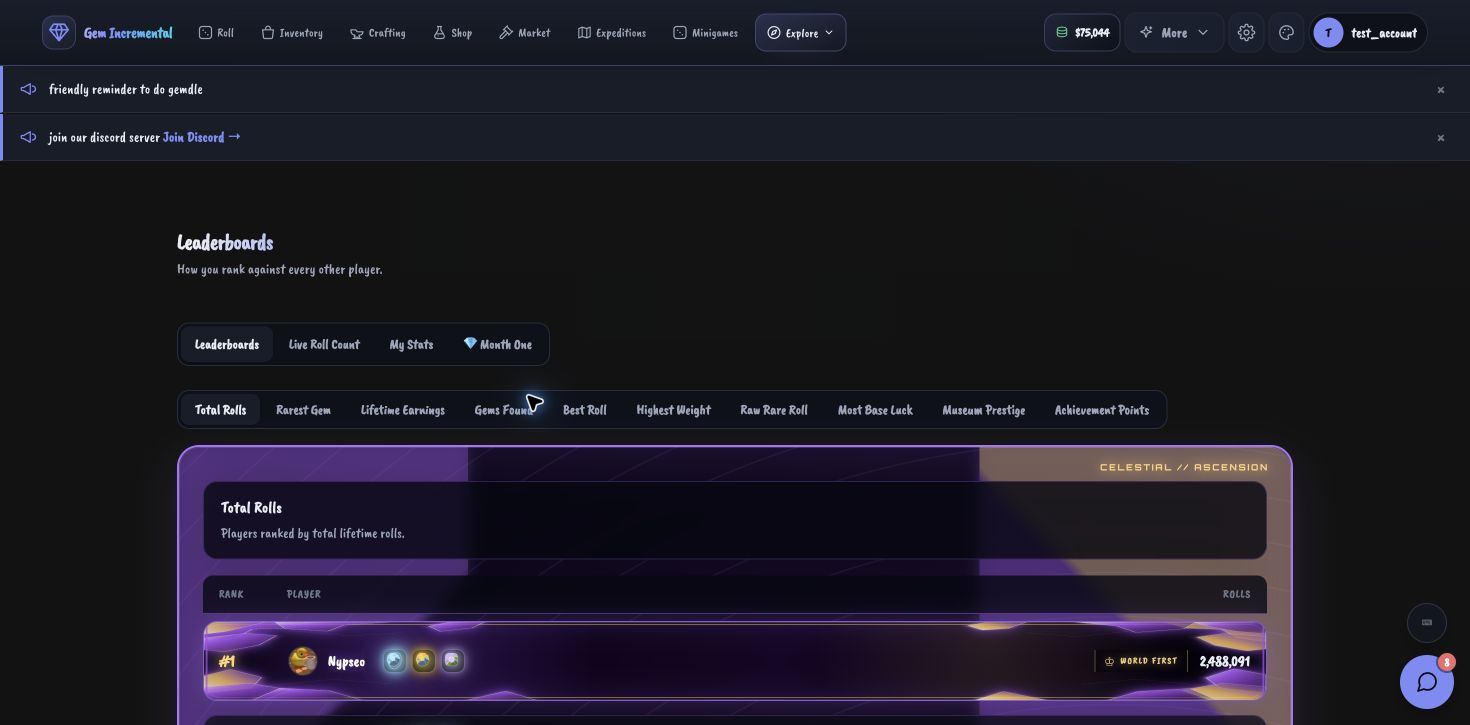
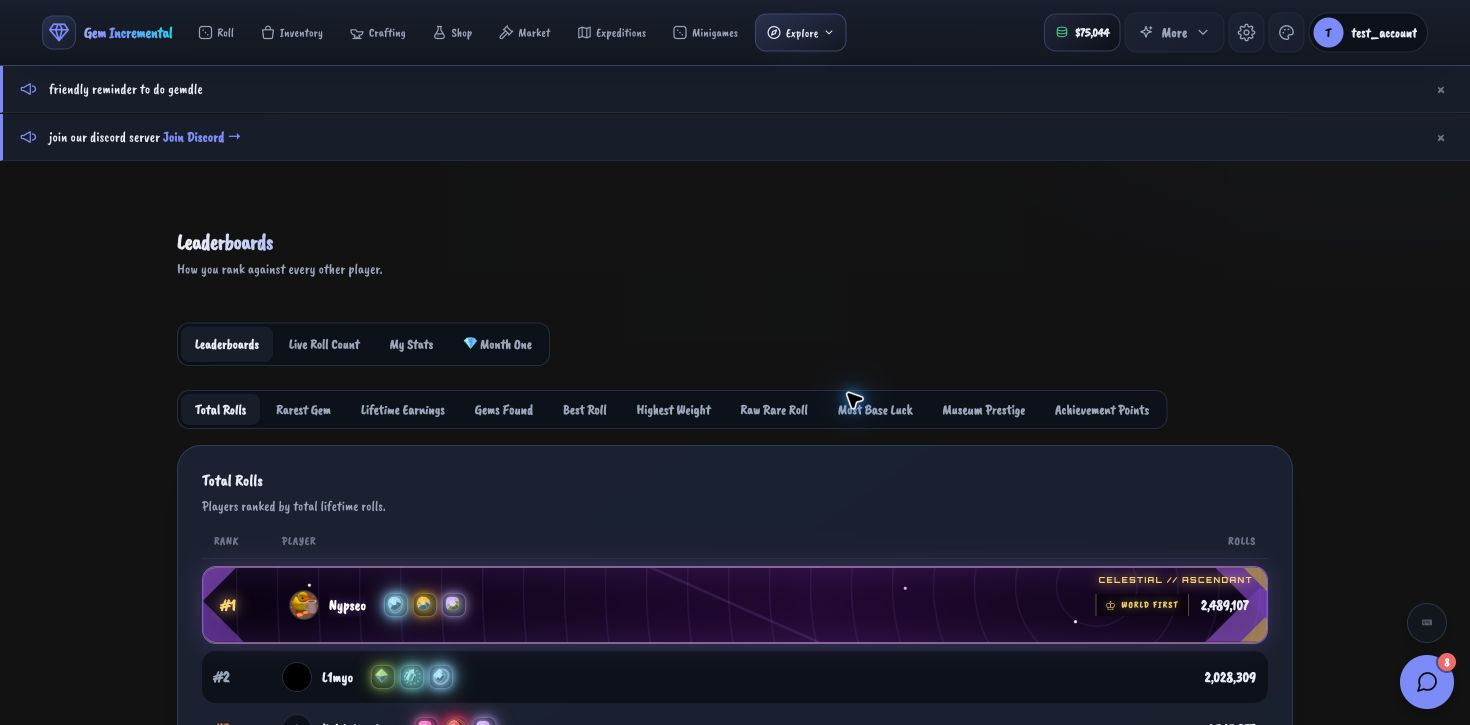
Apply leaderboard skins to player rows

diff --git a/leaderboards/leaderboards.css b/leaderboards/leaderboards.css
@@ -40,29 +40,122 @@
 .leaderboard-card h2 {
   margin-bottom: var(--space-1);
 }
-.leaderboard-card:is([data-leaderboard-skin="glitched"],[data-leaderboard-skin="celestial"],[data-leaderboard-skin="overgrown"]){--board-skin:#9f72ff;--board-skin-2:#f1cb76;position:relative;isolation:isolate;overflow:hidden;padding:34px 24px 24px;border:2px solid var(--board-skin);border-radius:22px;box-shadow:inset 0 0 0 1px #ffffff29,inset 0 0 65px color-mix(in srgb,var(--board-skin) 17%,transparent),0 16px 45px color-mix(in srgb,var(--board-skin) 15%,transparent)}
-.leaderboard-card:is([data-leaderboard-skin="glitched"],[data-leaderboard-skin="celestial"],[data-leaderboard-skin="overgrown"])::before{position:absolute;z-index:3;top:16px;right:22px;color:var(--board-skin-2);font:800 .55rem/1 var(--font-display);letter-spacing:.19em;text-transform:uppercase;text-shadow:0 0 12px currentColor}
-.leaderboard-card:is([data-leaderboard-skin="glitched"],[data-leaderboard-skin="celestial"],[data-leaderboard-skin="overgrown"])::after{content:"";position:absolute;inset:0;z-index:0;pointer-events:none;border-radius:inherit;opacity:.82;filter:drop-shadow(0 0 7px color-mix(in srgb,var(--board-skin) 70%,transparent))}
-.leaderboard-card:is([data-leaderboard-skin="glitched"],[data-leaderboard-skin="celestial"],[data-leaderboard-skin="overgrown"]) > *{position:relative;z-index:1}
-.leaderboard-card:is([data-leaderboard-skin="glitched"],[data-leaderboard-skin="celestial"],[data-leaderboard-skin="overgrown"]) .leaderboard-title-row{padding:15px 17px;border:1px solid color-mix(in srgb,var(--board-skin) 24%,transparent);border-radius:14px;background:#050710c7;backdrop-filter:blur(7px)}
-.leaderboard-card:is([data-leaderboard-skin="glitched"],[data-leaderboard-skin="celestial"],[data-leaderboard-skin="overgrown"]) .leaderboard-header{margin-top:12px;padding:10px 16px;border-color:color-mix(in srgb,var(--board-skin) 40%,transparent);border-radius:10px 10px 0 0;background:#050710c7;backdrop-filter:blur(7px)}
-.leaderboard-card:is([data-leaderboard-skin="glitched"],[data-leaderboard-skin="celestial"],[data-leaderboard-skin="overgrown"]) .leaderboard-row{min-height:64px;margin-block:7px;padding:13px 16px;border:1px solid color-mix(in srgb,var(--board-skin) 24%,transparent);background:#060810c2;box-shadow:inset 0 0 18px color-mix(in srgb,var(--board-skin) 8%,transparent);backdrop-filter:blur(4px)}
-.leaderboard-card:is([data-leaderboard-skin="glitched"],[data-leaderboard-skin="celestial"],[data-leaderboard-skin="overgrown"]) .leaderboard-row:first-child{min-height:80px;border-color:color-mix(in srgb,var(--board-skin) 78%,transparent);background:linear-gradient(100deg,color-mix(in srgb,var(--board-skin) 31%,transparent),#05070fd9 56%,color-mix(in srgb,var(--board-skin-2) 13%,transparent));box-shadow:inset 0 0 30px color-mix(in srgb,var(--board-skin) 18%,transparent),0 0 24px color-mix(in srgb,var(--board-skin) 24%,transparent)}
-.leaderboard-card:is([data-leaderboard-skin="glitched"],[data-leaderboard-skin="celestial"],[data-leaderboard-skin="overgrown"]) .leaderboard-row:first-child .rank{color:var(--board-skin-2)!important;text-shadow:0 0 14px currentColor}
+.leaderboard-row:is([data-leaderboard-skin="glitched"],[data-leaderboard-skin="celestial"],[data-leaderboard-skin="overgrown"]) {
+  --row-skin: #9f72ff;
+  --row-skin-2: #f1cb76;
+  position: relative;
+  isolation: isolate;
+  overflow: hidden;
+  min-height: 78px;
+  margin-block: 7px;
+  padding: 15px 18px;
+  border: 1px solid color-mix(in srgb, var(--row-skin) 78%, transparent);
+  background: #070811 !important;
+  box-shadow: inset 0 0 0 1px #ffffff1a,
+    inset 0 0 34px color-mix(in srgb, var(--row-skin) 18%, transparent),
+    0 0 23px color-mix(in srgb, var(--row-skin) 22%, transparent);
+}
 
-.leaderboard-card[data-leaderboard-skin="glitched"]{--board-skin:#43f1df;--board-skin-2:#ff4d96;background:repeating-linear-gradient(0deg,transparent 0 8px,#64fff008 9px 10px),linear-gradient(112deg,transparent 47%,#ff438518 47.2% 47.7%,transparent 48%),radial-gradient(circle at 18% 16%,#103f4b78,transparent 28%),linear-gradient(145deg,#02090e,#170718 62%,#041317)}
-.leaderboard-card[data-leaderboard-skin="glitched"]::before{content:"GLITCHED // RANK FEED"}
-.leaderboard-card[data-leaderboard-skin="glitched"]::after{background:conic-gradient(from 28deg at 0 0,#43f1df 0 9deg,#06151a 10deg 22deg,#ff4d96 23deg 33deg,transparent 34deg),conic-gradient(from 211deg at 100% 100%,#ff4d96 0 11deg,#06151a 12deg 25deg,#43f1df 26deg 36deg,transparent 37deg),linear-gradient(135deg,#43f1df 0 2px,transparent 3px) 0 0/35% 52% no-repeat,linear-gradient(315deg,#ff4d96 0 2px,transparent 3px) 100% 100%/40% 50% no-repeat}.leaderboard-card[data-leaderboard-skin="glitched"] .leaderboard-row:nth-child(3n+1){text-shadow:-1px 0 #ff4381,1px 0 #42eaff}
+.leaderboard-row:is([data-leaderboard-skin="glitched"],[data-leaderboard-skin="celestial"],[data-leaderboard-skin="overgrown"])::before {
+  content: "";
+  position: absolute;
+  inset: 0;
+  z-index: 0;
+  pointer-events: none;
+  opacity: 0.88;
+}
 
-.leaderboard-card[data-leaderboard-skin="celestial"]{--board-skin:#a875ff;--board-skin-2:#ffd477;background:radial-gradient(circle at 11% 13%,#fff 0 1px,transparent 2px),radial-gradient(circle at 78% 24%,#d1bcff 0 1px,transparent 2px),repeating-radial-gradient(circle at 84% 12%,transparent 0 42px,#ae78ff16 43px 44px),radial-gradient(circle at 82% 13%,#61348761,transparent 20%),linear-gradient(145deg,#070211,#180728 63%,#0a0315)}
-.leaderboard-card[data-leaderboard-skin="celestial"]::before{content:"CELESTIAL // ASCENSION"}
-.leaderboard-card[data-leaderboard-skin="celestial"]::after{opacity:.5;background:linear-gradient(135deg,#a55cf0b8 0 12%,transparent 12.4%) 0 0/26% 39% no-repeat,linear-gradient(225deg,#ffd477b8 0 9%,#9851e5b8 9.4% 19%,transparent 19.4%) 100% 0/28% 42% no-repeat,linear-gradient(45deg,#8e4bd6b8 0 13%,transparent 13.4%) 0 100%/30% 42% no-repeat,linear-gradient(315deg,#ffd477b8 0 8%,#a962edb8 8.4% 19%,transparent 19.4%) 100% 100%/31% 43% no-repeat,linear-gradient(24deg,transparent 49.7%,#b784ff36 50%,transparent 50.3%)}
+.leaderboard-row:is([data-leaderboard-skin="glitched"],[data-leaderboard-skin="celestial"],[data-leaderboard-skin="overgrown"])::after {
+  position: absolute;
+  z-index: 2;
+  inset: 9px 14px auto auto;
+  width: auto;
+  opacity: 1;
+  background: none;
+  filter: none;
+  color: var(--row-skin-2);
+  font: 800 0.5rem/1 var(--font-display);
+  letter-spacing: 0.17em;
+  text-transform: uppercase;
+  text-shadow: 0 0 11px currentColor;
+}
 
-.leaderboard-card[data-leaderboard-skin="overgrown"]{--board-skin:#82d179;--board-skin-2:#dfb267;background:linear-gradient(112deg,transparent 48%,#a8d48617 49%,transparent 50%),radial-gradient(ellipse at 50% 106%,#5c764d 0,#293a26 31%,transparent 58%),linear-gradient(145deg,#081009,#172018 63%,#0b120c)}
-.leaderboard-card[data-leaderboard-skin="overgrown"]::before{content:"OVERGROWN // DEEPEST ROOTS"}
-.leaderboard-card[data-leaderboard-skin="overgrown"]::after{background:linear-gradient(135deg,#657657 0 14%,transparent 14.4%) 0 0/30% 45% no-repeat,linear-gradient(225deg,#455d40 0 16%,transparent 16.4%) 100% 0/34% 46% no-repeat,linear-gradient(45deg,#7a8d63 0 15%,transparent 15.4%) 0 100%/33% 47% no-repeat,linear-gradient(315deg,#506747 0 17%,transparent 17.4%) 100% 100%/36% 49% no-repeat,repeating-radial-gradient(ellipse at 7% 18%,transparent 0 13px,#79bd6840 14px 16px,transparent 17px 30px)}
-.leaderboard-card[data-leaderboard-skin="overgrown"] .leaderboard-row{border-bottom:3px solid #4e683e}
-@media(max-width:620px){.leaderboard-card:is([data-leaderboard-skin="glitched"],[data-leaderboard-skin="celestial"],[data-leaderboard-skin="overgrown"]){padding:38px 10px 12px;border-radius:17px}.leaderboard-card:is([data-leaderboard-skin="glitched"],[data-leaderboard-skin="celestial"],[data-leaderboard-skin="overgrown"])::before{top:14px;right:14px;font-size:.47rem}.leaderboard-card:is([data-leaderboard-skin="glitched"],[data-leaderboard-skin="celestial"],[data-leaderboard-skin="overgrown"])::after{opacity:.52}.leaderboard-card:is([data-leaderboard-skin="glitched"],[data-leaderboard-skin="celestial"],[data-leaderboard-skin="overgrown"]) .leaderboard-row{padding-inline:10px}}
+.leaderboard-row:is([data-leaderboard-skin="glitched"],[data-leaderboard-skin="celestial"],[data-leaderboard-skin="overgrown"]) > * {
+  position: relative;
+  z-index: 1;
+}
+
+.leaderboard-row:is([data-leaderboard-skin="glitched"],[data-leaderboard-skin="celestial"],[data-leaderboard-skin="overgrown"]) .rank {
+  color: var(--row-skin-2) !important;
+  text-shadow: 0 0 14px currentColor;
+}
+
+.leaderboard-row[data-leaderboard-skin="glitched"] {
+  --row-skin: #43f1df;
+  --row-skin-2: #ff5b9d;
+  background: repeating-linear-gradient(0deg, transparent 0 7px, #64fff009 8px 9px),
+    radial-gradient(circle at 16% 50%, #0b5d687d, transparent 28%),
+    linear-gradient(102deg, #020b10, #180717 61%, #04151a) !important;
+}
+
+.leaderboard-row[data-leaderboard-skin="glitched"]::before {
+  background: conic-gradient(from 28deg at 0 0, #43f1df 0 10deg, #06151a 11deg 25deg, #ff4d96 26deg 36deg, transparent 37deg),
+    conic-gradient(from 210deg at 100% 100%, #ff4d96 0 11deg, #06151a 12deg 26deg, #43f1df 27deg 38deg, transparent 39deg),
+    linear-gradient(90deg, transparent 0 48%, #43f1df2e 48.2% 49%, transparent 49.2% 71%, #ff4d9630 71.2% 72%, transparent 72.2%);
+}
+
+.leaderboard-row[data-leaderboard-skin="glitched"]::after { content: "GLITCHED // USER"; }
+.leaderboard-row[data-leaderboard-skin="glitched"] .lb-name-text { text-shadow: -1px 0 #ff4381, 1px 0 #42eaff; }
+
+.leaderboard-row[data-leaderboard-skin="celestial"] {
+  --row-skin: #aa72ff;
+  --row-skin-2: #ffd477;
+  background: radial-gradient(circle at 10% 24%, #fff 0 1px, transparent 2px),
+    radial-gradient(circle at 66% 28%, #d1bcff 0 1px, transparent 2px),
+    radial-gradient(circle at 82% 72%, #fff 0 1px, transparent 2px),
+    repeating-radial-gradient(circle at 84% 25%, transparent 0 39px, #ae78ff19 40px 41px),
+    linear-gradient(102deg, #080211, #220832 58%, #0b0315) !important;
+}
+
+.leaderboard-row[data-leaderboard-skin="celestial"]::before {
+  opacity: 0.68;
+  background: linear-gradient(135deg, #a55cf0d1 0 13%, transparent 13.5%) 0 0 / 18% 75% no-repeat,
+    linear-gradient(225deg, #ffd477d1 0 8%, #9851e5d1 8.5% 18%, transparent 18.5%) 100% 0 / 21% 78% no-repeat,
+    linear-gradient(45deg, #8e4bd6ce 0 13%, transparent 13.5%) 0 100% / 24% 70% no-repeat,
+    linear-gradient(315deg, #ffd477d1 0 8%, #a962edcf 8.5% 19%, transparent 19.5%) 100% 100% / 25% 72% no-repeat,
+    linear-gradient(24deg, transparent 49.6%, #b784ff42 50%, transparent 50.4%);
+}
+
+.leaderboard-row[data-leaderboard-skin="celestial"]::after { content: "CELESTIAL // ASCENDANT"; }
+
+.leaderboard-row[data-leaderboard-skin="overgrown"] {
+  --row-skin: #82d179;
+  --row-skin-2: #edc478;
+  border-bottom-width: 3px;
+  background: linear-gradient(112deg, transparent 48%, #a8d48619 49%, transparent 50%),
+    radial-gradient(ellipse at 48% 118%, #58734b 0, #263823 35%, transparent 60%),
+    linear-gradient(102deg, #081009, #1a281a 60%, #0b120c) !important;
+}
+
+.leaderboard-row[data-leaderboard-skin="overgrown"]::before {
+  background: linear-gradient(135deg, #657657 0 16%, transparent 16.5%) 0 0 / 23% 88% no-repeat,
+    linear-gradient(225deg, #455d40 0 18%, transparent 18.5%) 100% 0 / 26% 90% no-repeat,
+    linear-gradient(45deg, #7a8d63 0 17%, transparent 17.5%) 0 100% / 25% 88% no-repeat,
+    linear-gradient(315deg, #506747 0 19%, transparent 19.5%) 100% 100% / 28% 92% no-repeat,
+    repeating-radial-gradient(ellipse at 6% 20%, transparent 0 12px, #79bd6850 13px 15px, transparent 16px 29px);
+}
+
+.leaderboard-row[data-leaderboard-skin="overgrown"]::after { content: "OVERGROWN // DEEP ROOT"; }
+
+@media (max-width: 620px) {
+  .leaderboard-row:is([data-leaderboard-skin="glitched"],[data-leaderboard-skin="celestial"],[data-leaderboard-skin="overgrown"]) {
+    min-height: 68px;
+    padding: 13px 10px;
+  }
+
+  .leaderboard-row:is([data-leaderboard-skin="glitched"],[data-leaderboard-skin="celestial"],[data-leaderboard-skin="overgrown"])::before { opacity: 0.58; }
+  .leaderboard-row:is([data-leaderboard-skin="glitched"],[data-leaderboard-skin="celestial"],[data-leaderboard-skin="overgrown"])::after { display: none; }
+}
 
 .leaderboard-title-row {
   margin-bottom: var(--space-4);

diff --git a/leaderboards/leaderboards.js b/leaderboards/leaderboards.js
@@ -14,7 +14,6 @@ import gems from "../src/data/gems.js";
 import { loadShowcasesFor } from "../src/backend/cloudShowcase.js";
 import { showcasePinsHtml } from "../src/ui/showcaseRender.js";
 import { roleForUsername, roleBadgeHtml } from "../src/ui/roles.js";
-import { mountEquippedLeaderboardSkin } from "../src/ui/equippedCosmetics.js";
 
 let liveMutationCatalog = Object.fromEntries(
   Object.values(GEM_MUTATIONS).map((mutation) => [mutation.id, mutation])
@@ -102,7 +101,9 @@ let activeLeaderboard =
 let avatarMap = {};
 let showcaseMap = {};
 let profileIdMap = {};
+let leaderboardSkinMap = {};
 let impossibleWorldFirstId = null;
+const leaderboardSkinStyles = new Set(['glitched', 'celestial', 'overgrown']);
 
 function showcasePins(username) {
   return showcasePinsHtml(showcaseMap[username]);
@@ -205,7 +206,9 @@ async function loadAvatars() {
     "bestRoll",
     "mostWeight",
     "rawRareRoll",
-    "baseLuck"
+    "baseLuck",
+    "museumPrestige",
+    "achievementPoints"
   ]) {
     for (const player of leaderboardData[key]) {
       if (player.username) {
@@ -218,6 +221,7 @@ async function loadAvatars() {
     avatarMap = {};
     showcaseMap = {};
     profileIdMap = {};
+    leaderboardSkinMap = {};
     return;
   }
 
@@ -260,6 +264,25 @@ async function loadAvatars() {
       ? profileResult.data
       : {};
   impossibleWorldFirstId = impossibleResult.error ? null : impossibleResult.data?.player_id ?? null;
+
+  const userIds = [...new Set(Object.values(profileIdMap).filter(Boolean))];
+  if (userIds.length === 0) {
+    leaderboardSkinMap = {};
+    return;
+  }
+
+  const { data: publicCosmetics, error: cosmeticsError } = await supabase.rpc(
+    "get_public_player_titles",
+    { p_user_ids: userIds }
+  );
+
+  leaderboardSkinMap = {};
+  if (!cosmeticsError && publicCosmetics && typeof publicCosmetics === "object") {
+    for (const [username, userId] of Object.entries(profileIdMap)) {
+      const style = publicCosmetics[userId]?.leaderboard_skin?.visual_config?.style;
+      if (leaderboardSkinStyles.has(style)) leaderboardSkinMap[username] = style;
+    }
+  }
 }
 
 
@@ -949,6 +972,11 @@ function wireProfileLinks() {
     "[data-profile-username]"
   );
 
+  const previewStyle = new URLSearchParams(location.search).get('cosmeticPreview');
+  const previewRow = leaderboardSkinStyles.has(previewStyle)
+    ? identities[0]?.closest('.leaderboard-row')
+    : null;
+
   for (const identity of identities) {
     if (identity.closest("a.leaderboard-profile-link")) {
       continue;
@@ -956,15 +984,21 @@ function wireProfileLinks() {
 
     const username = identity.dataset.profileUsername;
     const userId = profileIdMap[username];
+    const row = identity.closest('.leaderboard-row');
+    const skinStyle = row === previewRow ? previewStyle : leaderboardSkinMap[username];
+
+    if (row && leaderboardSkinStyles.has(skinStyle)) {
+      row.dataset.leaderboardSkin = skinStyle;
+      row.title = `${username}'s equipped ${skinStyle} leaderboard skin`;
+    }
 
     if (!userId) {
       continue;
     }
 
     if (userId === impossibleWorldFirstId) {
-      const row = identity.closest('.leaderboard-row');
       row?.classList.add('leaderboard-row--impossible');
-      if (row) row.title = 'Impossible — World First · awarded to first Impossible Pickaxe crafter';
+      if (row && !row.dataset.leaderboardSkin) row.title = 'Impossible — World First · awarded to first Impossible Pickaxe crafter';
       const label = document.createElement('span');
       label.className = 'impossible-world-first-label';
       label.innerHTML = '<span aria-hidden="true">♔</span><span>WORLD FIRST</span>';
@@ -1320,6 +1354,5 @@ async function startLeaderboards() {
 
 
 startLeaderboards();
-mountEquippedLeaderboardSkin();
 
 achievementPointsTab.addEventListener("click", () => { activeLeaderboard = "achievementPoints"; renderLeaderboard(); });

diff --git a/src/ui/equippedCosmetics.js b/src/ui/equippedCosmetics.js
@@ -16,17 +16,3 @@ export async function mountEquippedRollCard() {
     if (item && rollStyles.has(style)) stage.dataset.rollCard = style;
   } catch { /* The standard card is the safe fallback. */ }
 }
-
-export async function mountEquippedLeaderboardSkin() {
-  const card = document.getElementById('leaderboardCard');
-  if (!card) return;
-  const preview = new URLSearchParams(location.search).get('cosmeticPreview');
-  if (['glitched','celestial','overgrown'].includes(preview)) { card.dataset.leaderboardSkin = preview; return; }
-  try {
-    const { data, error } = await supabase.rpc('get_my_cosmetics');
-    if (error) return;
-    const item = data?.resolved?.leaderboard_skin;
-    const style = cosmeticStyle(item);
-    if (item && rollStyles.has(style)) card.dataset.leaderboardSkin = style;
-  } catch { /* The standard leaderboard is the safe fallback. */ }
-}

diff --git a/artifacts/facets-store/README.md b/artifacts/facets-store/README.md
@@ -1,6 +1,6 @@
 # Facets Store visual verification
 
-These captures were taken from the locally running game while signed into the dedicated test account. The theme previews use the same profile, roll-stage and leaderboard renderers as equipped cosmetics; they are not isolated mockups.
+These captures were taken from the locally running game while signed into the dedicated test account. The theme previews use the same profile, roll-stage and leaderboard renderers as equipped cosmetics; they are not isolated mockups. Leaderboard skins decorate the equipped player's individual row only, while the board around it remains neutral.
 
 ## Store and My Cosmetics
 
